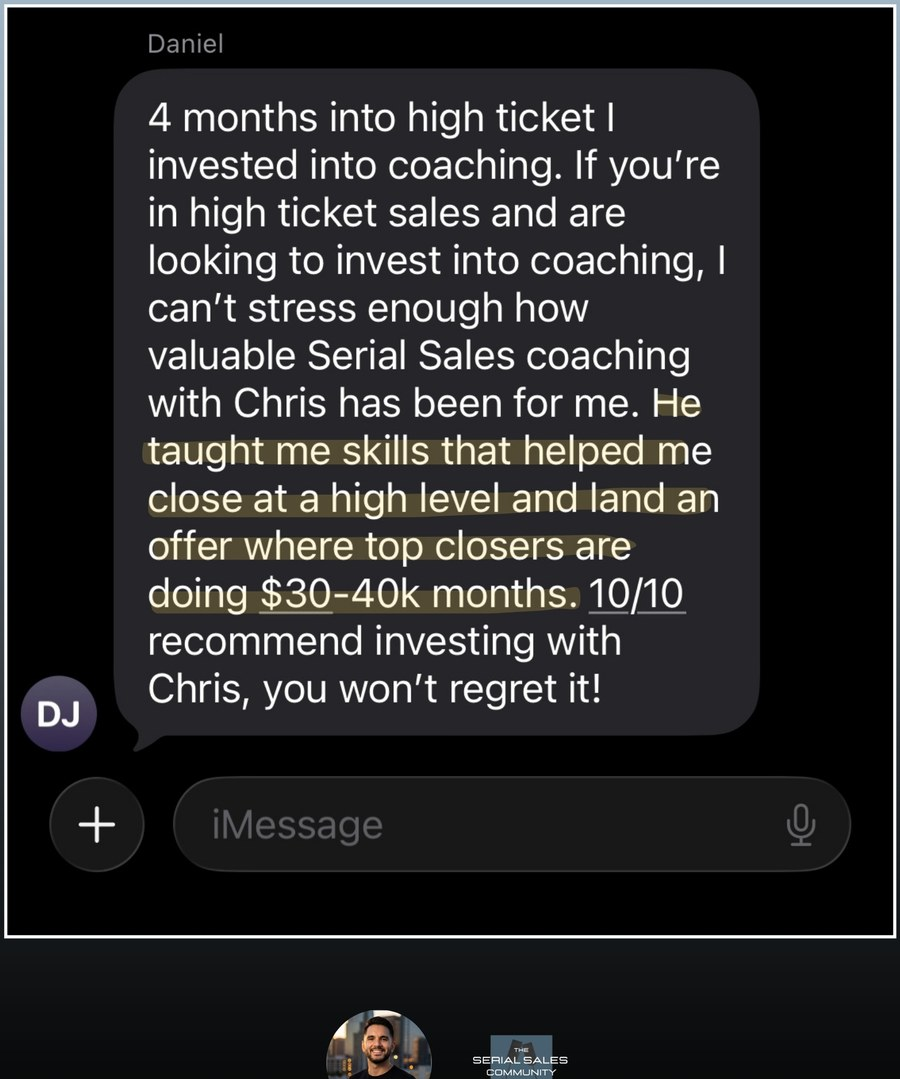
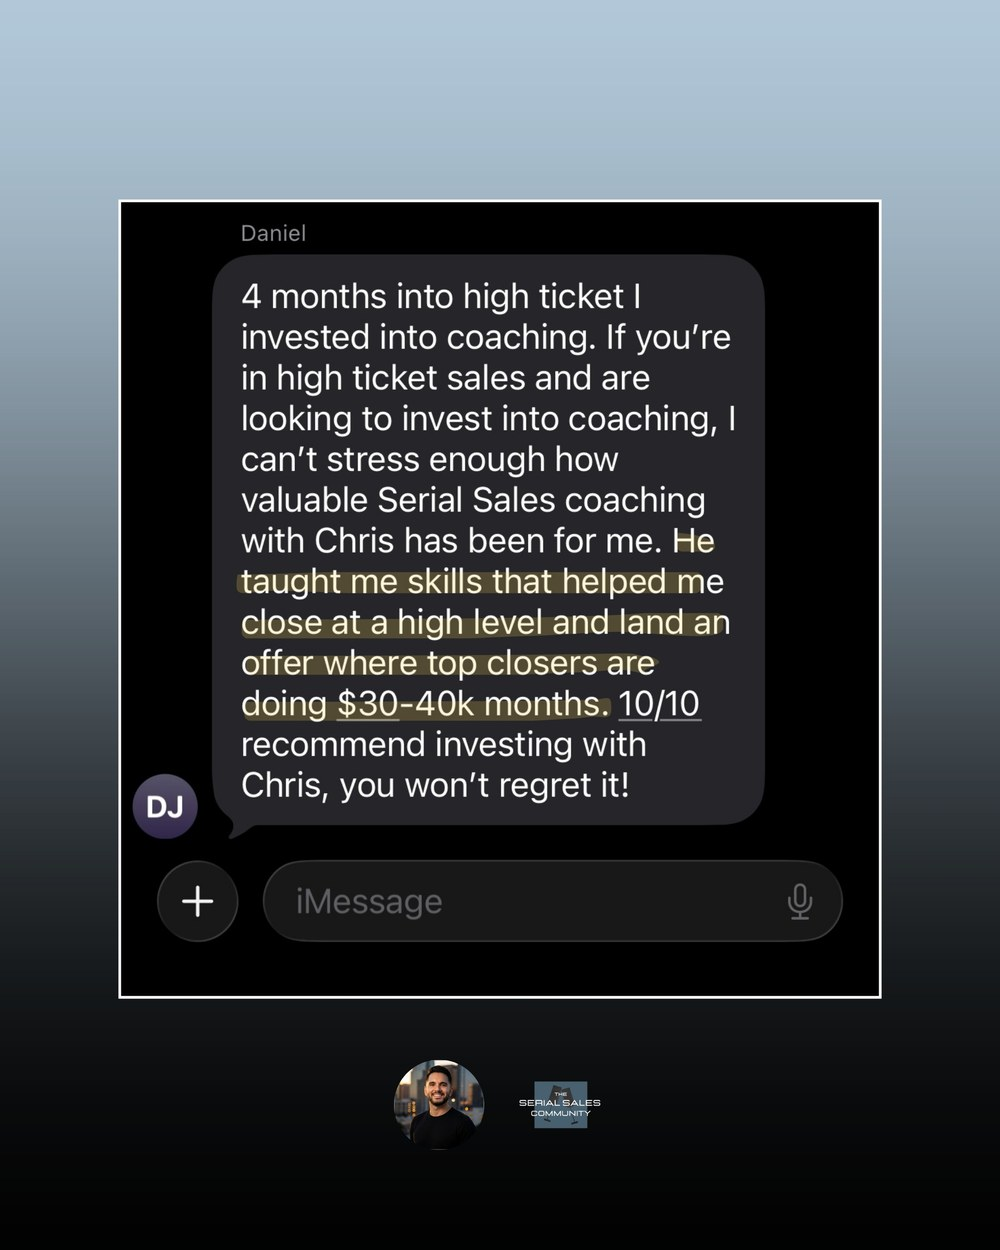
sales-ascension: 4:5 testimonial modals, move Past Clients up, remove em dash

diff --git a/app/globals.css b/app/globals.css
@@ -984,7 +984,7 @@ body:has(.tpt-page) > .formkit-form { margin: 0 auto !important; display: block 
 
 .sa-modal { position: fixed; inset: 0; z-index: 300; display: flex; align-items: center; justify-content: center; padding: 20px; background: rgba(0,0,0,0.78); backdrop-filter: blur(4px); -webkit-backdrop-filter: blur(4px); animation: saFade 0.18s ease; }
 @keyframes saFade { from { opacity: 0; } to { opacity: 1; } }
-.sa-modal__box { position: relative; width: 100%; max-width: 420px; max-height: 90vh; overflow-y: auto; background: var(--dark-2); border: 1px solid rgba(182,205,222,0.25); border-radius: var(--radius); padding: 22px; box-shadow: 0 24px 70px rgba(0,0,0,0.6); }
+.sa-modal__box { position: relative; width: 100%; max-width: 440px; max-height: 92vh; overflow-y: auto; background: var(--dark-2); border: 1px solid rgba(182,205,222,0.25); border-radius: var(--radius); padding: 18px; box-shadow: 0 24px 70px rgba(0,0,0,0.6); }
 .sa-modal__close { position: absolute; top: 12px; right: 12px; width: 34px; height: 34px; border-radius: 50%; border: 1px solid var(--border-lt); background: rgba(255,255,255,0.06); color: #fff; font-size: 20px; line-height: 1; cursor: pointer; display: flex; align-items: center; justify-content: center; }
 .sa-modal__close:hover { background: rgba(255,255,255,0.14); }
 .sa-modal__head { display: flex; align-items: center; gap: 14px; margin-bottom: 16px; padding-right: 40px; }
@@ -992,4 +992,4 @@ body:has(.tpt-page) > .formkit-form { margin: 0 auto !important; display: block 
 .sa-modal__name { font-family: var(--font-display); font-size: 18px; font-weight: 800; color: var(--white); margin: 0; }
 .sa-modal__result { font-size: 10px; font-weight: 700; letter-spacing: 0.12em; text-transform: uppercase; color: rgba(182,205,222,0.7); }
 .sa-modal__texts { display: flex; flex-direction: column; gap: 12px; }
-.sa-modal__text { width: 100%; border-radius: 10px; border: 1px solid var(--border-lt); display: block; }
+.sa-modal__text { width: 100%; height: auto; max-height: 62vh; object-fit: contain; border-radius: 10px; border: 1px solid var(--border-lt); display: block; margin: 0 auto; }

diff --git a/app/sales-ascension/page.js b/app/sales-ascension/page.js
@@ -305,7 +305,7 @@ function PastClients() {
     <section className="sa-section" id="clients">
       <span className="sa-pill">Past Clients</span>
       <h2 className="sa-h2">What Every Client Said</h2>
-      <p className="sa-lead">We don&apos;t cherry-pick the wins. These are reviews from every client who&apos;s worked with us &mdash; not just the success stories. Tap any client to read the exact message they sent us.</p>
+      <p className="sa-lead">We don&apos;t cherry-pick the wins. These are reviews from every client who&apos;s worked with us, not just the success stories. Tap any client to read the exact message they sent us.</p>
 
       <div className="sa-clients">
         {CLIENTS.map((cl, i) => (
@@ -520,6 +520,9 @@ export default function SalesAscensionPage() {
         </div>
       </section>
 
+      {/* PAST CLIENTS */}
+      <PastClients />
+
       {/* STANDARDS */}
       <section className="sa-section">
         <div className="sa-card-dark">
@@ -732,9 +735,6 @@ export default function SalesAscensionPage() {
           </div>
         </div>
       </section>
-
-      {/* PAST CLIENTS */}
-      <PastClients />
 
       {/* GUARANTEE */}
       <section className="sa-guarantee">
